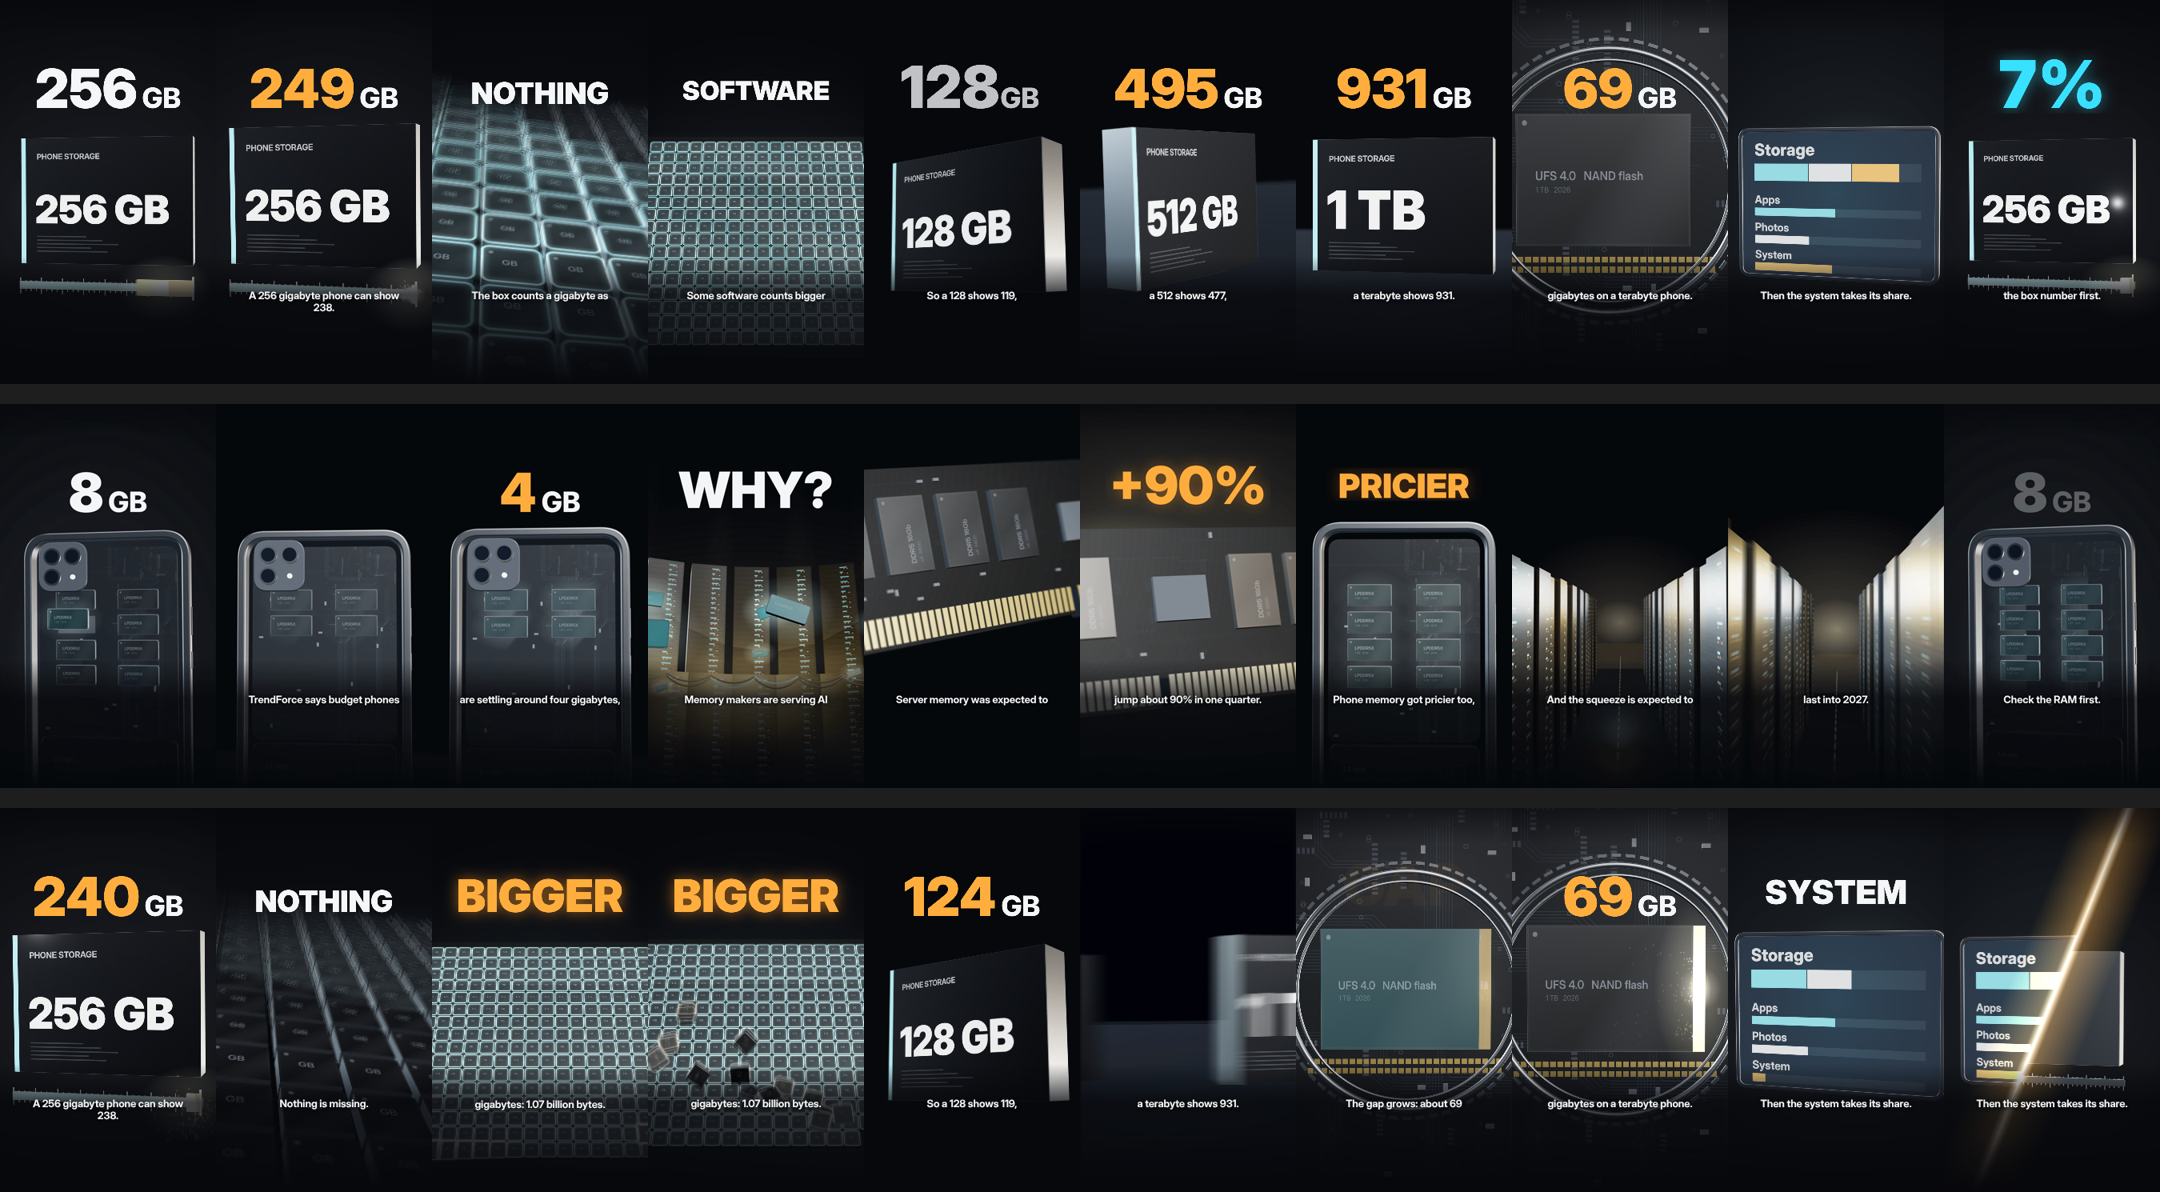
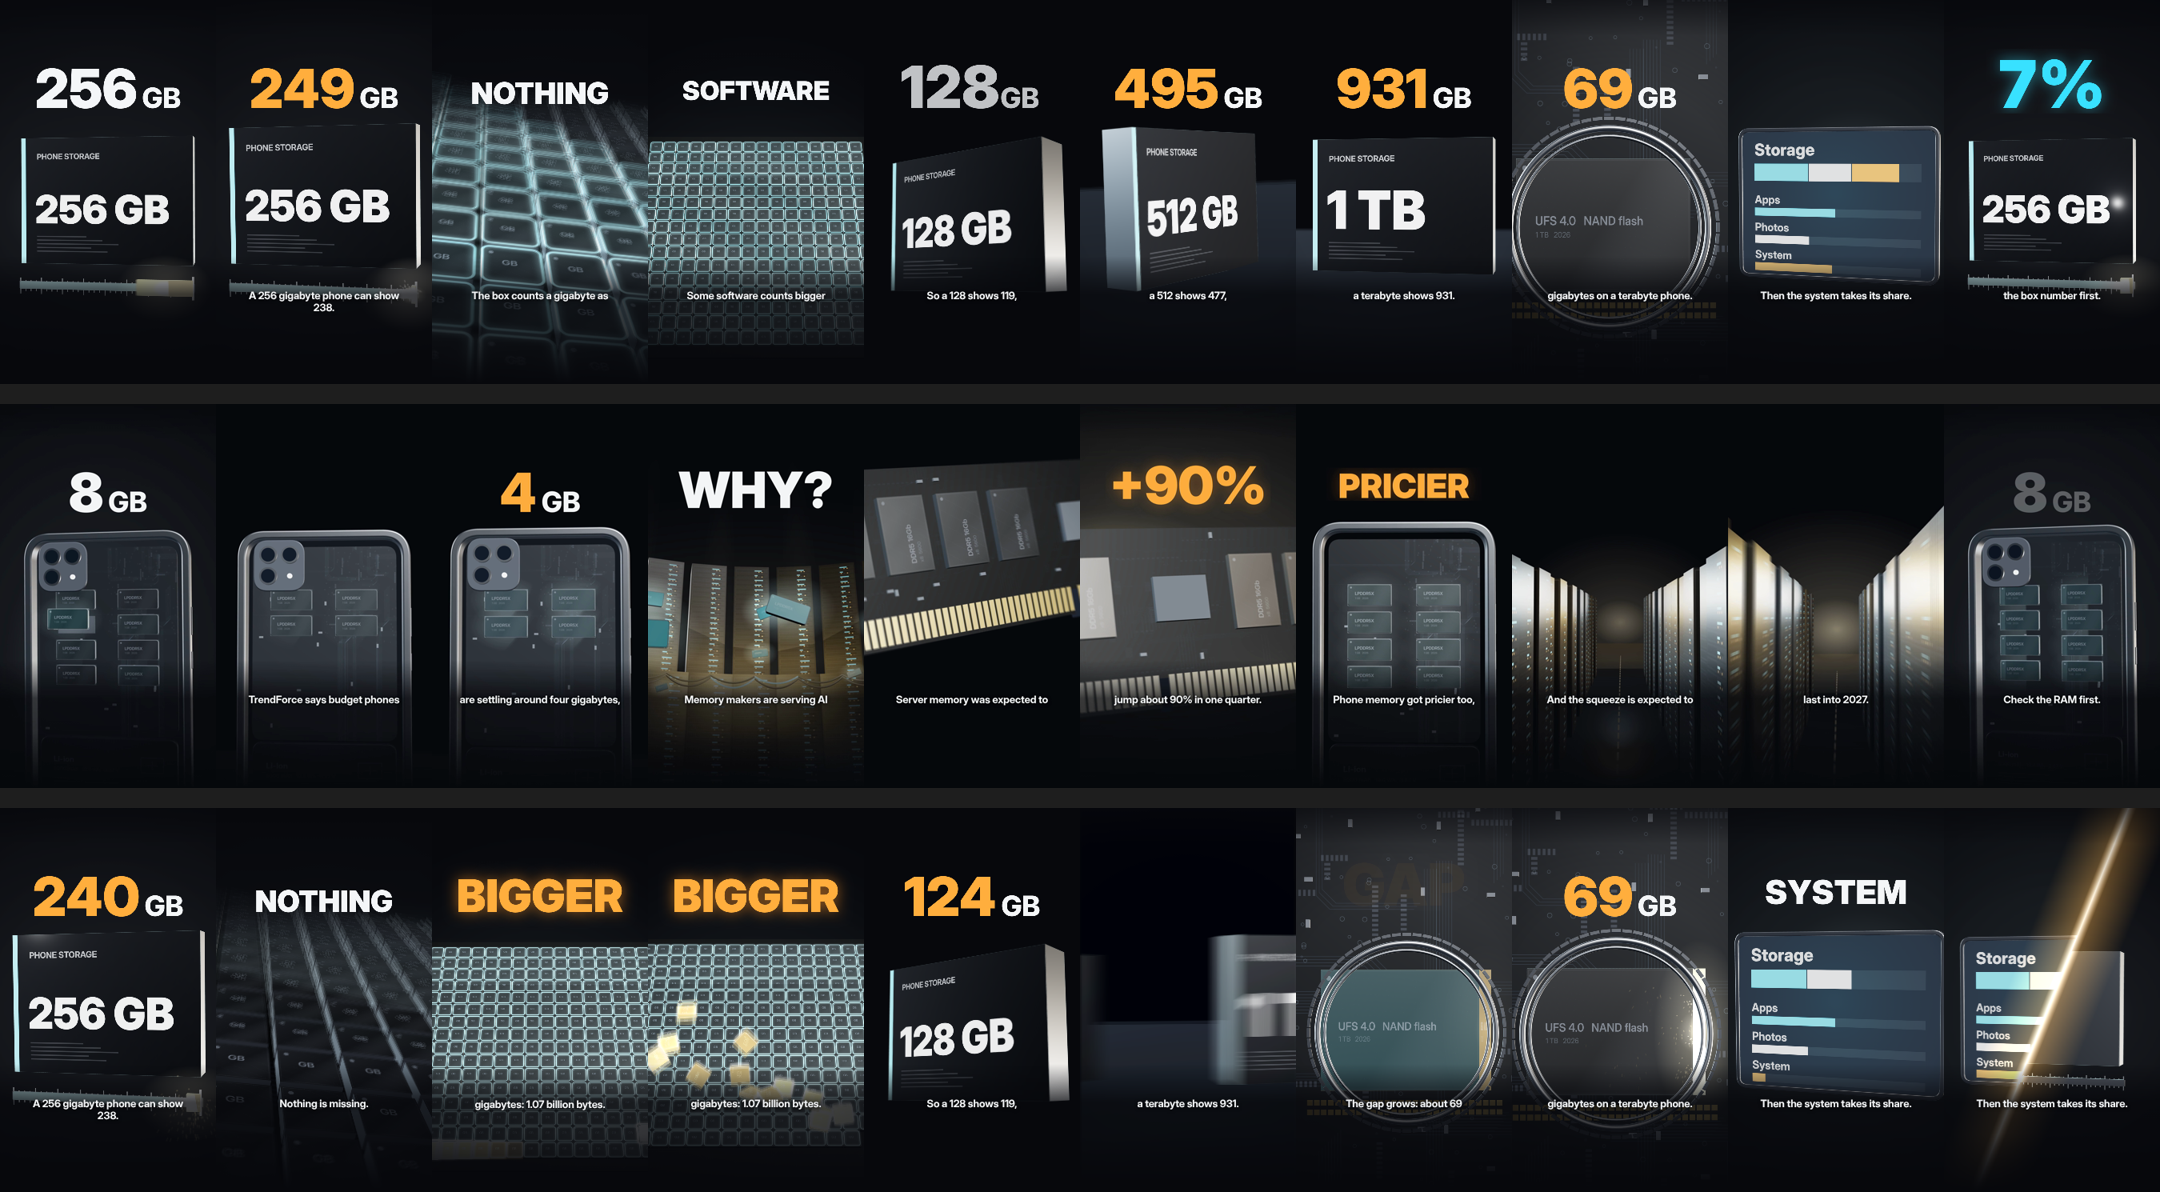
Tech storage-gap: amber tiles that leave, chip lower so 69 GB sits clear of the ring
Claude-Session: https://claude.ai/code/session_01AYvWRkSP5tegu36WUNHVbT

diff --git a/techkit/scenes/storage-gap.html b/techkit/scenes/storage-gap.html
@@ -171,10 +171,10 @@ const slice = new THREE.Mesh(new THREE.BoxGeometry(SLW, PKH, .36), [M.chipSide, 
   for (let i = 0; i < 28; i++) for (let r = 0; r < 2; r++) { dd.position.set(-3.55 + i * .26, -PKH / 2 - .5 - r * .34, -.2); dd.updateMatrix(); pads.setMatrixAt(i * 2 + r, dd.matrix); } chipG.add(pads);
   const caps = new THREE.InstancedMesh(new THREE.BoxGeometry(.3, .16, .12), M.comp, 44), RR = rng(9);
   for (let i = 0; i < 44; i++) { let x, y; do { x = (RR() - .5) * 17; y = (RR() - .5) * 17; } while (Math.abs(x) < 4 && Math.abs(y) < 3.4); dd.position.set(x, y, -.2); dd.rotation.z = RR() < .5 ? 0 : Math.PI / 2; dd.updateMatrix(); caps.setMatrixAt(i, dd.matrix); } chipG.add(caps);
-  const lens = new THREE.Mesh(new THREE.TorusGeometry(4.0, .1, 20, 120), M.metal); lens.position.z = 2.2; chipG.add(lens);
-  const lens2 = new THREE.Mesh(new THREE.TorusGeometry(3.7, .05, 12, 120), M.darkMetal); lens2.position.z = 2.0; chipG.add(lens2);
+  const lens = new THREE.Mesh(new THREE.TorusGeometry(3.0, .1, 20, 120), M.metal); lens.position.z = 2.2; chipG.add(lens);
+  const lens2 = new THREE.Mesh(new THREE.TorusGeometry(2.78, .05, 12, 120), M.darkMetal); lens2.position.z = 2.0; chipG.add(lens2);
   const kn = new THREE.InstancedMesh(new THREE.BoxGeometry(.1, .3, .12), M.metal, 60);
-  for (let i = 0; i < 60; i++) { const a = i / 60 * Math.PI * 2; dd.position.set(Math.cos(a) * 4.3, Math.sin(a) * 4.3, 2.2); dd.rotation.set(0, 0, a); dd.updateMatrix(); kn.setMatrixAt(i, dd.matrix); } chipG.add(kn);
+  for (let i = 0; i < 60; i++) { const a = i / 60 * Math.PI * 2; dd.position.set(Math.cos(a) * 3.3, Math.sin(a) * 3.3, 2.2); dd.rotation.set(0, 0, a); dd.updateMatrix(); kn.setMatrixAt(i, dd.matrix); } chipG.add(kn);
   const glow = new THREE.Sprite(new THREE.SpriteMaterial({ map: glowTex, color: SIG, transparent: true, opacity: .28, blending: THREE.AdditiveBlending, depthWrite: false })); glow.scale.set(22, 16, 1); glow.position.z = -1; chipG.add(glow); }
 
 // F: a floating Storage screen (glass only: no phone body, no chips)
@@ -198,6 +198,7 @@ const tileGlowTex = ctex(128, 128, (c, w, h) => { c.shadowColor = '#fff'; c.shad
   c.shadowBlur = 0; c.fillStyle = 'rgba(255,255,255,.16)'; c.fill(); });
 tileGlowTex.encoding = THREE.LinearEncoding;
 const tileGlow = new THREE.InstancedMesh(new THREE.PlaneGeometry(1.14, 1.14), new THREE.MeshBasicMaterial({ map: tileGlowTex, transparent: true, blending: THREE.AdditiveBlending, depthWrite: false }), TN); tileGlow.frustumCulled = false; slab.add(tileGlow);
+const tileHeat = new THREE.InstancedMesh(new THREE.BoxGeometry(.9, .9, .26), new THREE.MeshBasicMaterial({ color: 0xffffff, transparent: true, opacity: 1, blending: THREE.AdditiveBlending, depthWrite: false }), TN); tileHeat.frustumCulled = false; slab.add(tileHeat);
 const TR = rng(77), TF = []; for (let i = 0; i < TN; i++) TF.push({ dx: (TR() - .5) * 7, dy: 3 + TR() * 6, dz: 6 + TR() * 5, rx: (TR() - .5) * 4, rz: (TR() - .5) * 5 });
 const tileC = { cyan: new THREE.Color(SIG), white: new THREE.Color(0xdff4ff), amber: new THREE.Color(HEAT) }, td = new THREE.Object3D(), tcol = new THREE.Color();
 const tileLit = (i) => { const c = i % GN, r = Math.floor(i / GN); return ((GN - 1 - r) + c) / (2 * GN - 2); };   // 0 at the near corner, 1 far
@@ -208,11 +209,11 @@ function updateSlab(t) {
     const c = i % GN, r = Math.floor(i / GN), x = (c - 7.5) * PIT, y = (7.5 - r) * PIT, ti = B[1] + .1 + tileLit(i) * (C.billion - .15 - B[1] - .1);
     const L = eout(prog(t, ti, ti + .3)), flies = i >= GONE0, tf = tileFly(i), u = flies ? clamp((t - tf) / 1.0) : 0, p = ein(u), f = TF[i];
     const s = (1 + .13 * g) * (u >= 1 ? 0 : 1), fl = flies ? prog(t, tf - .12, tf + .1) : 0;
-    td.position.set(x + f.dx * p, y + f.dy * p, .02 + f.dz * p); td.rotation.set(f.rx * p, 0, f.rz * p); td.scale.setScalar(s); td.updateMatrix(); tiles.setMatrixAt(i, td.matrix);
+    td.position.set(x + f.dx * p, y + f.dy * p, .02 + f.dz * p); td.rotation.set(f.rx * p, 0, f.rz * p); td.scale.setScalar(s); td.updateMatrix(); tiles.setMatrixAt(i, td.matrix); tileHeat.setMatrixAt(i, td.matrix); tcol.copy(tileC.amber).multiplyScalar(flies ? .75 * fl * (1 - .5 * u) : 0); tileHeat.setColorAt(i, tcol);
     td.position.z += .14; td.scale.setScalar(s * (1 - .12 * g) * (1 + .5 * fl * (1 - u)) * (L > 0 ? 1 : 0)); td.updateMatrix(); tileGlow.setMatrixAt(i, td.matrix);
     tcol.copy(tileC.cyan).lerp(tileC.white, g * .12).lerp(tileC.amber, fl).multiplyScalar(L * ((.62 + .12 * Math.sin(t * 3 + i * .7)) * (1 - g) + .62 * g + 1.9 * fl) * (1 - .3 * u)); tileGlow.setColorAt(i, tcol);
   }
-  tiles.instanceMatrix.needsUpdate = true; tileGlow.instanceMatrix.needsUpdate = true; tileGlow.instanceColor.needsUpdate = true;
+  tiles.instanceMatrix.needsUpdate = true; tileGlow.instanceMatrix.needsUpdate = true; tileGlow.instanceColor.needsUpdate = true; tileHeat.instanceMatrix.needsUpdate = true; tileHeat.instanceColor.needsUpdate = true;
 }
 const slabFog = new THREE.FogExp2(0x07080c, .028);
 
@@ -277,7 +278,7 @@ function shotCam(t, sh) {
       FC = { pos: V(x2 + .4, 1.5, z + 18.5), look: V(x2, 1.5, z), fov: 31 };
     const f = KIT.reframe(KIT.reframe(FA, FB, ease(prog(t, C.a512 - .45, C.a512 + .2))), FC, ease(prog(t, C.tb - .45, C.tb + .2)));
     return { ...f, ap: .12, focus: V(lineX(t), 1.0, z) }; }
-  if (sh === 4) { const z = -300, k = G(u); return { pos: V(lerp(-.5, .5, k), lerp(1.2, .6, k), z + lerp(27, 23, k)), look: V(lerp(-.2, .5, k), -.4, z), fov: 30 }; }   // a close view of the package under the ring
+  if (sh === 4) { const z = -300, k = G(u); return { pos: V(lerp(-.5, .5, k), lerp(1.2, .6, k), z + lerp(27, 23, k)), look: V(lerp(-.2, .5, k), 1.1, z), fov: 30 }; }   // a close view of the package under the ring
   if (sh === 5) { const z = -420, k = G(u); return { pos: V(lerp(1.6, .6, k), lerp(1.0, .7, k), z + lerp(14.5, 16.5, k)), look: V(0, .3, z), fov: 32 }; }   // the Storage screen
   // G: the box turns from its back to its front while the camera settles on A's framing (the loop)
   const k = G(prog(t, B[6], TOTAL - .05), .45), A0 = shotCam(0, 0);
